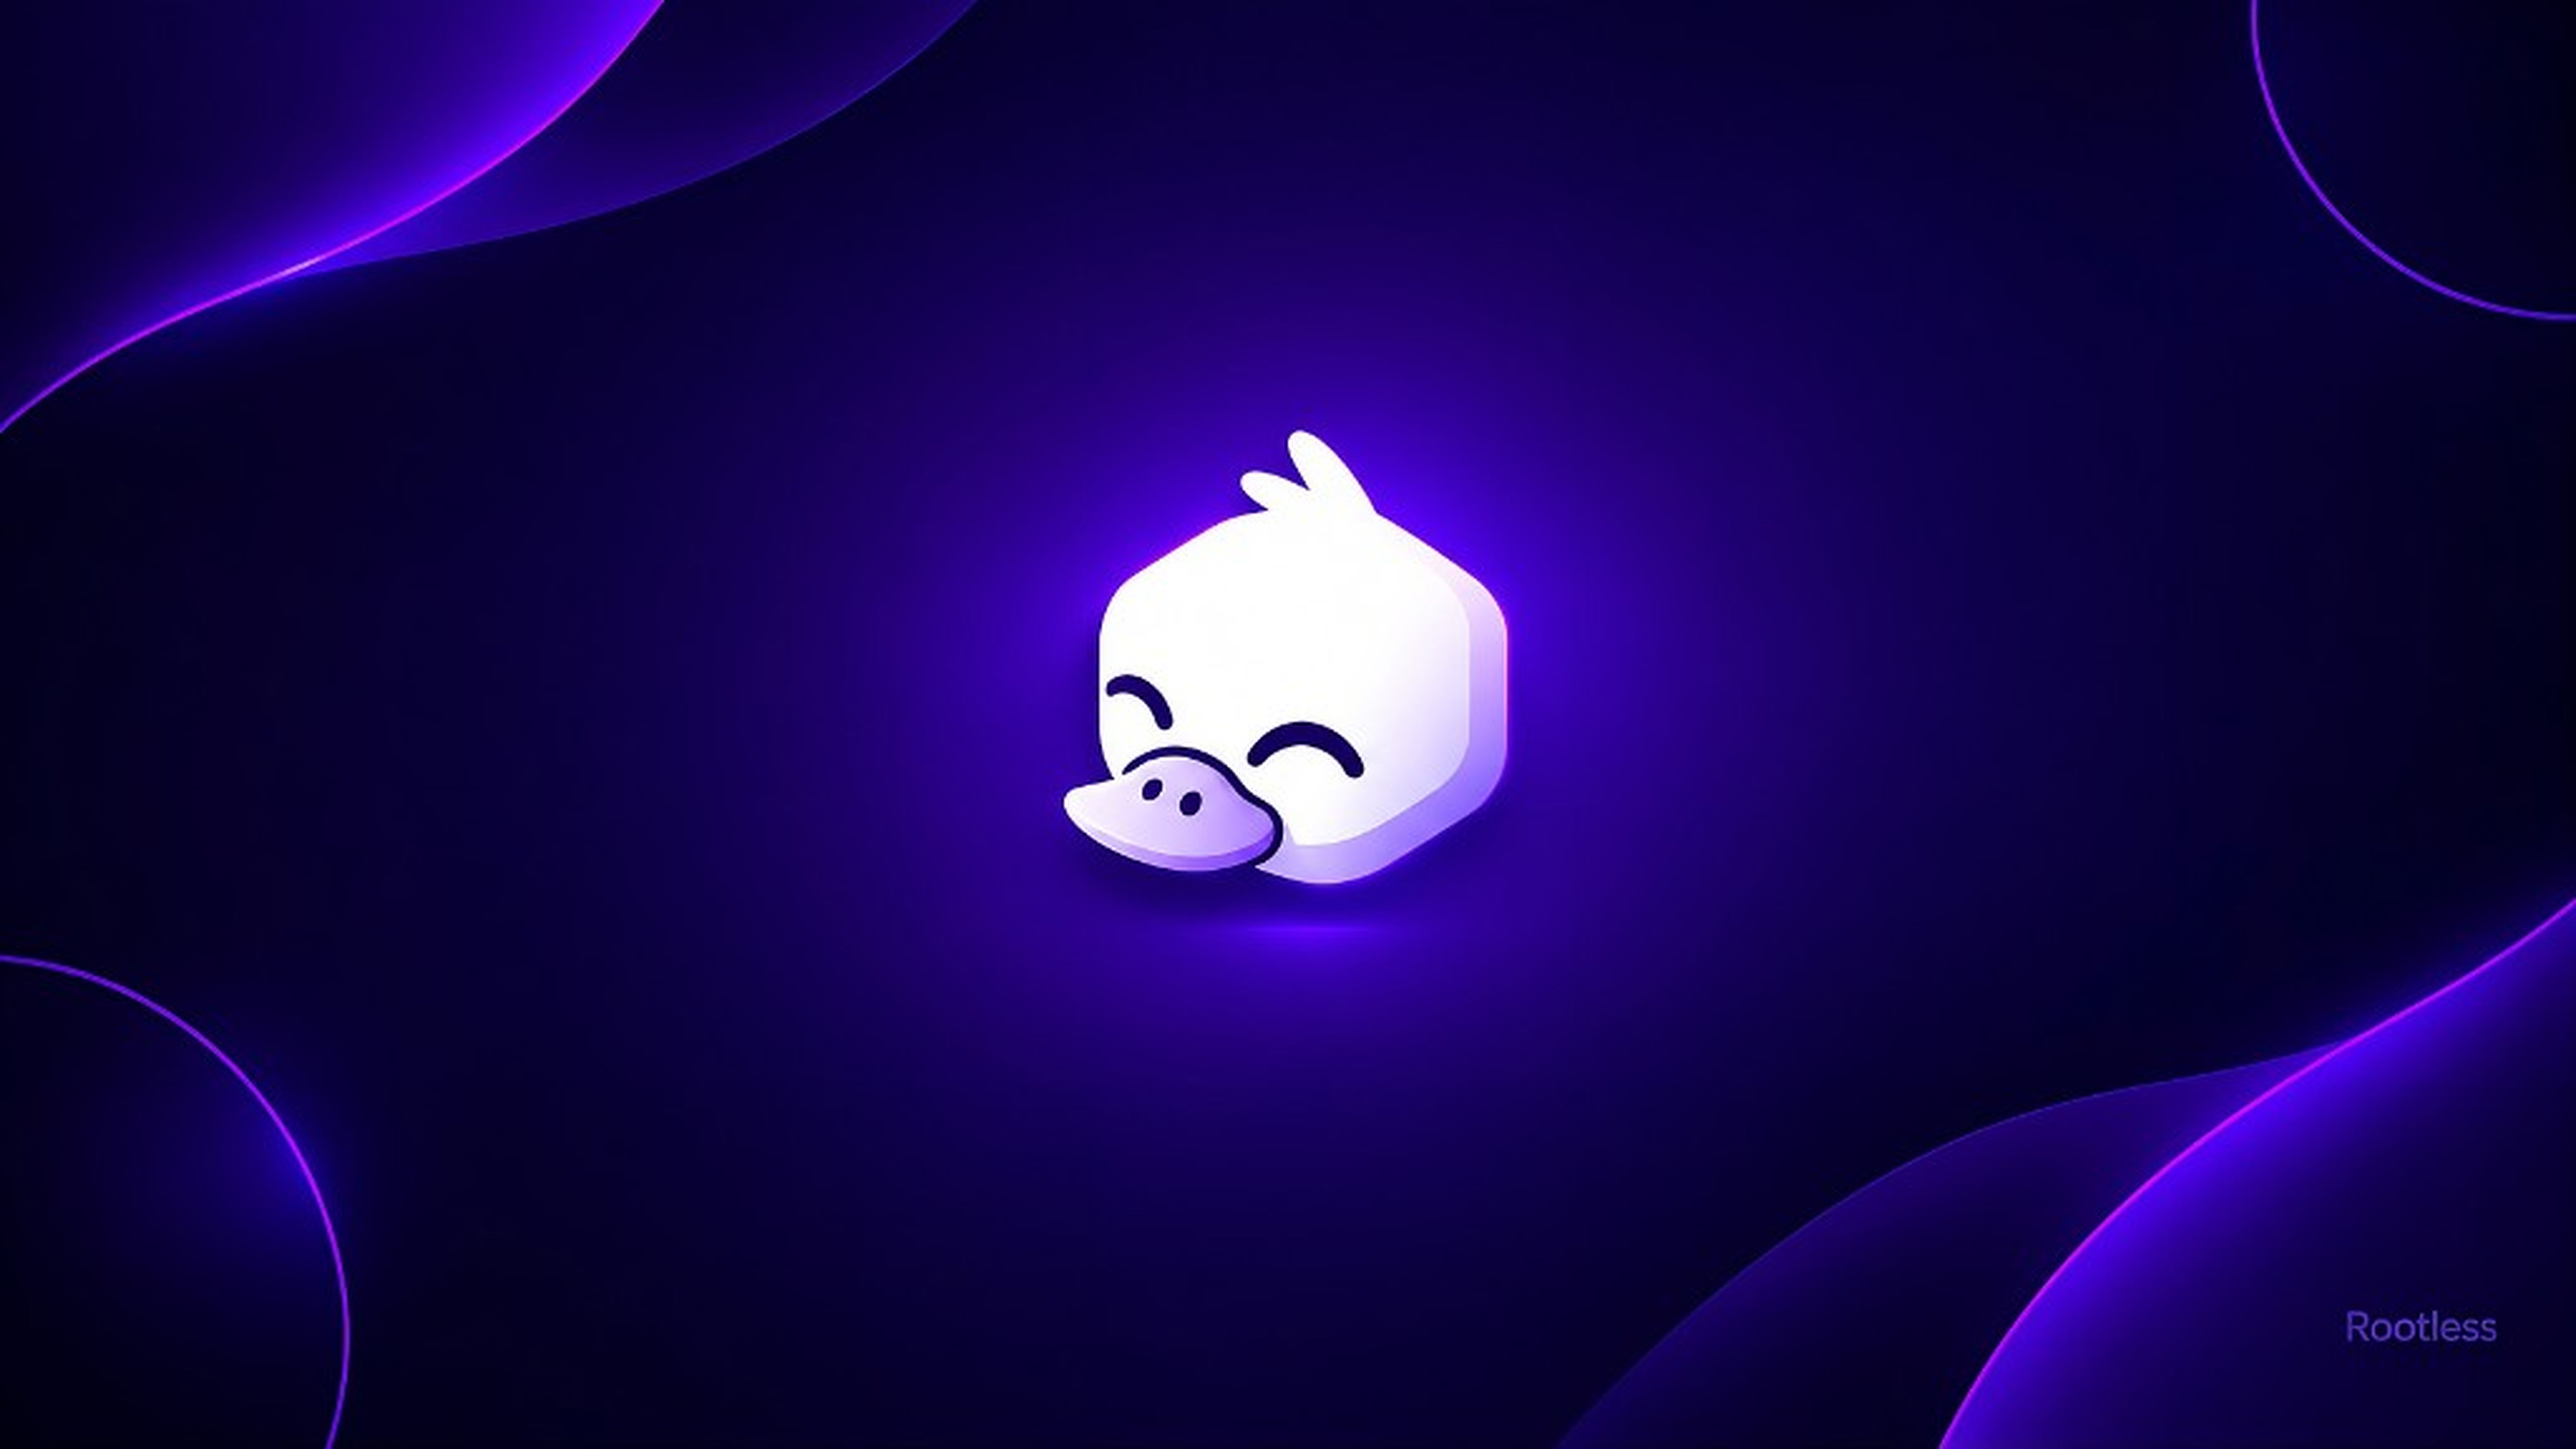
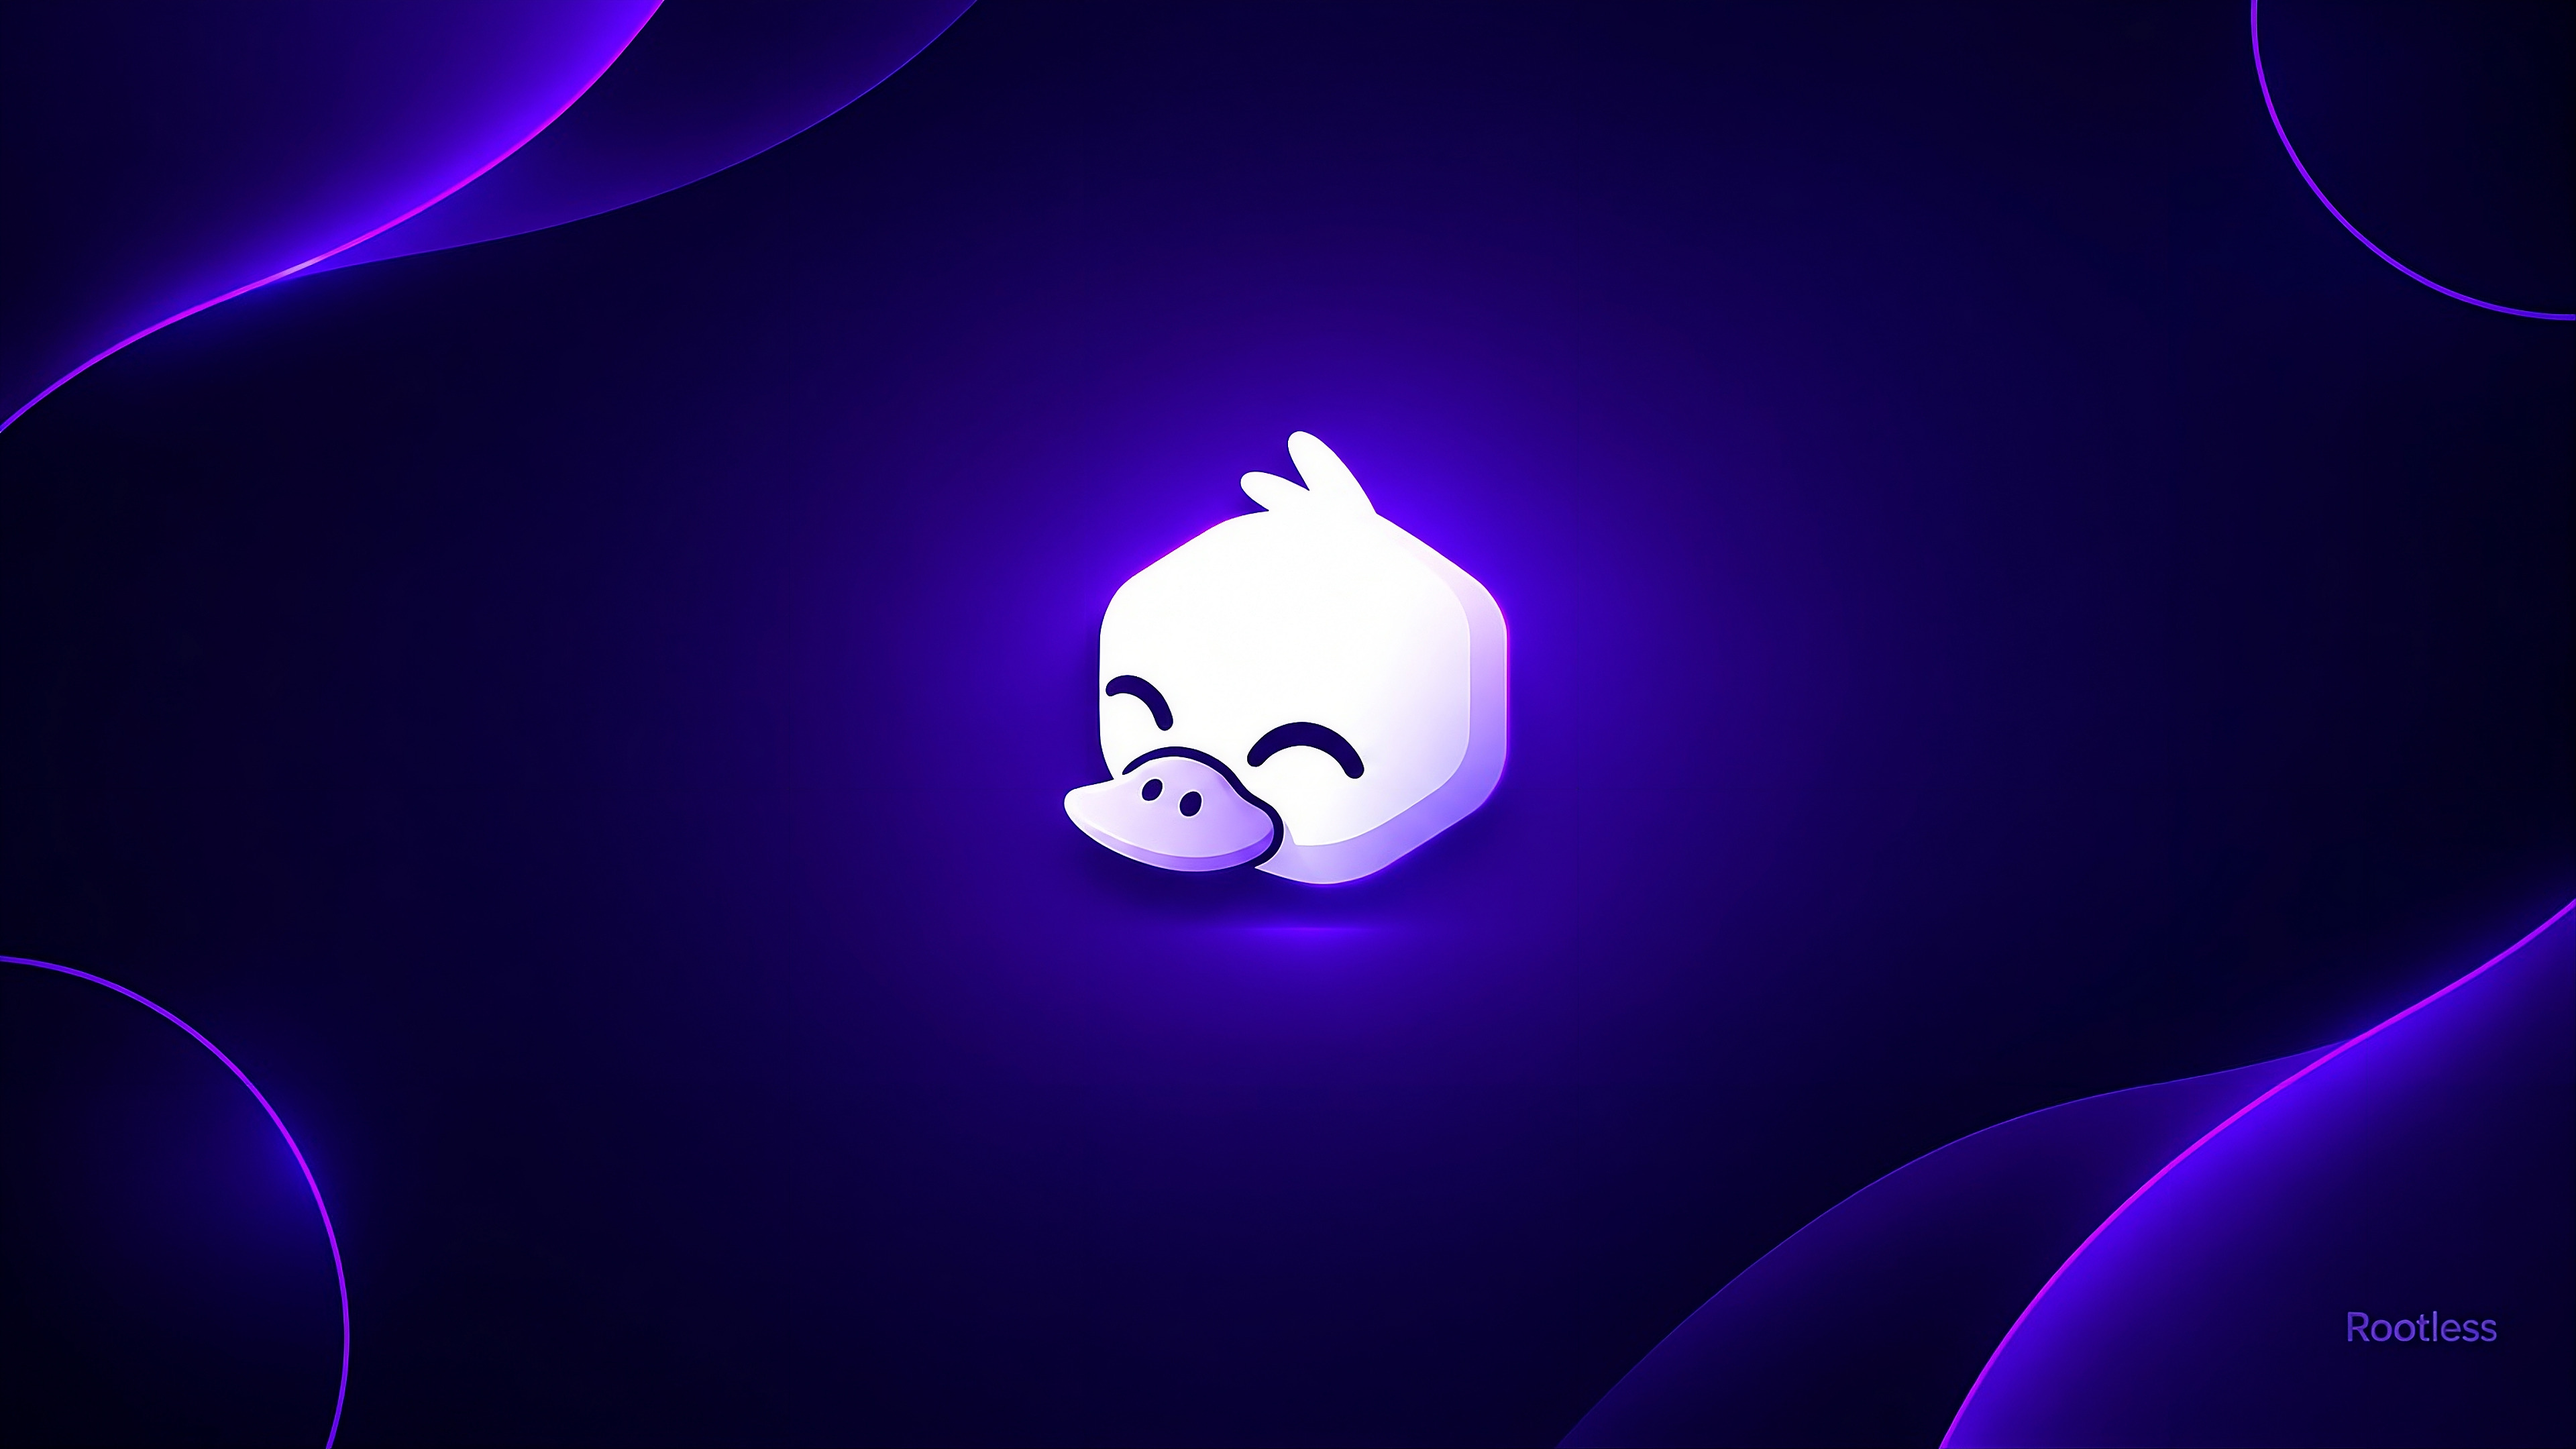
Regenerate wallpapers from the high-resolution source, as JPEG
The artwork in assets/brand was replaced with a 3344x1882 version, but
the wallpapers had been generated from the earlier 1024x576 file, so the
4K output was a 3.75x upscale of a thumbnail. Regenerate from the real
source: 1920x1080 and 2560x1440 are now downscales and 3840x2160 is a
1.15x upscale.

Emit artwork wallpapers as JPEG rather than PNG. The source is lossy, so
PNG was losslessly preserving its JPEG artifacts at roughly ten times the
size: the set drops from 10.7 MB to 1.0 MB with no visible difference.
Generated gradient scenes stay PNG, where lossless actually pays off, and
the picker plus the installer accept either extension. Both drop stale
files from the other format so a leftover cannot be chosen instead.

diff --git a/README.md b/README.md
@@ -112,6 +112,8 @@ That regenerates the transparent mark, the braille duck art, the Plymouth images
 
 The wallpaper is the one exception to being generated from the logo: if `assets/brand/duckybox-wallpaper.jpg` (or `.png`) exists, that artwork is scaled to the three desktop resolutions **and** used as the login background, instead of the generated gradient scene. Drop in any 16:9 image to change it; other aspect ratios are centre-cropped to fill. GRUB keeps its own generated background, since its menu needs the lower half of the screen empty.
 
+Artwork is written out as JPEG and generated scenes as PNG. Encoding photographic artwork as PNG would losslessly preserve the source's own JPEG artifacts at roughly ten times the size, so the wallpaper set stays around 1 MB instead of 11 MB. The apply scripts accept either extension. Supply the artwork at the highest resolution you have: the 3840x2160 output is a straight downscale when the source is large enough, and only upscales when it is not.
+
 The GTK theme is [Orchis](https://github.com/vinceliuice/Orchis-theme) with its purple palette overwritten by the Duckybox violet before `sassc` compiles it, installed as `Duckybox`. Icons are the packaged `Papirus-Dark` with folders relinked to their violet variants, the same mechanism `papirus-folders` uses.
 
 ## Layout
